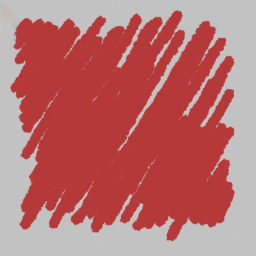
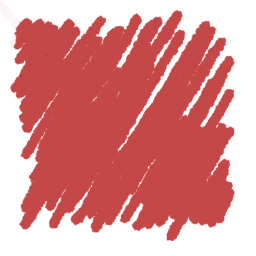
feat: sticker levitation when shifting

diff --git a/src/main.js b/src/main.js
@@ -293,17 +293,37 @@ class MainScene extends Phaser.Scene {
             let player_index_z = Math.floor((this.player.z + 90)/60)
 
             if(this.cube.face_colors[0]?.[player_index_x]?.[player_index_z] != undefined && 
-                this.cube.face_colors[0][player_index_x][player_index_z] != ""){
+            this.cube.face_colors[0][player_index_x][player_index_z] != "" &&
+            this.cube.moving_color.x == -1 && this.cube.moving_color.z == -1){
+                this.player.can_shift = true
+
                 this.cube.moving_color.color = this.cube.face_colors[0][player_index_x][player_index_z]
                 this.cube.moving_color.x = player_index_x
                 this.cube.moving_color.z = player_index_z
                 this.cube.face_colors[0][player_index_x][player_index_z] = ""
                 this.cube.update_colors()
             }
-        }else if(this.cube.moving_color.color != ""){
-            this.cube.face_colors[0][this.cube.moving_color.x][this.cube.moving_color.z] = this.cube.moving_color.color
-            this.cube.moving_color.color = ""
-            this.cube.update_colors()
+            if(this.player.can_shift){
+                this.cube.setTilePosition(this.cube.moving_color.x, this.cube.moving_color.z)
+                this.cube.setTileVisibility(this.cube.moving_color.color)
+                this.cube.setTileY(Math.min(15, this.player.shift_timer) + Math.sin(this.player.timer/10)*3)
+            }
+        }else {
+            this.player.can_shift = false
+        }
+        if(!this.player.can_shift){
+            if(Math.max(0, this.player.shift_timer) > 0){
+                this.cube.setTileY(Math.max(0, this.player.shift_timer))
+            }else{
+                this.cube.setTileVisibility("")
+                if(this.cube.moving_color.color != ""){
+                    this.cube.face_colors[0][this.cube.moving_color.x][this.cube.moving_color.z] = this.cube.moving_color.color
+                    this.cube.moving_color.x = -1
+                    this.cube.moving_color.z = -1
+                    this.cube.moving_color.color = ""
+                    this.cube.update_colors()
+                }
+            }
         }
 
         //Object Rendering

diff --git a/src/cubes.js b/src/cubes.js
@@ -1532,6 +1532,25 @@ export default class Cube {
                 [cube25, cube26, cube27]
             ]
         ]
+        this.old_tile = new Face3d(
+                [
+                    new Point(-90, -90, -90),
+                    new Point(-30, -90, -90),
+                    new Point(-30, -90, -30),
+                    new Point(-90, -90, -30)
+                ],
+                0x151515
+            )
+        this.tile = new Face3d(
+                [
+                    new Point(-90, -90, -90),
+                    new Point(-30, -90, -90),
+                    new Point(-30, -90, -30),
+                    new Point(-90, -90, -30)
+                ],
+                1,
+                ""
+            )
         this.general_cube = new Object3d([
             new Face3d(
                 [
@@ -1599,7 +1618,7 @@ export default class Cube {
         this.anim_rotations = new Set()
         this.last_rotated_axis = ""
         this.last_rotated_index = -1
-        this.moving_color = {x:1, z:1, color:""}
+        this.moving_color = {x:-1, z:-1, color:""}
         this.face_colors = 
         [
             [
@@ -1730,6 +1749,13 @@ export default class Cube {
                 }
             }
         }
+        let face = this.tile
+        let new_face = face.transform(0, 0, 0)
+        .transform(this.rotation.x, this.rotation.y, this.rotation.z)
+        .projection()
+        .translation(width/2, height/2, 0)
+        draw_faces.push(new_face)
+
         return(draw_faces)
     }
 
@@ -1913,5 +1939,20 @@ export default class Cube {
             indexes.push(i.index)
         }
         return indexes
+    }
+
+    setTileY(y_plus){
+        for(let point of this.tile.points){
+            point.y = -90 - y_plus
+        }
+    }
+    setTilePosition(x, z){
+        for(let i = 0; i < this.tile.points.length; i++){
+            this.tile.points[i].x = this.old_tile.points[i].x + x*60
+            this.tile.points[i].z = this.old_tile.points[i].z + z*60
+        }
+    }
+    setTileVisibility(texture){
+        this.tile.texture = texture
     }
 }

diff --git a/src/player.js b/src/player.js
@@ -12,11 +12,13 @@ export default class Player{
         this.x_speed = 0
         this.z_speed = 0
         this.can_down = true
+        this.can_shift = true
         this.anim = 0
         this.last_jump_time = 0
         this.second_jump = false
         this.jump_timer = 50
         this.timer = 0
+        this.shift_timer = 0
         this.kinetic_jump = 0
         this.object = 
         new Object3d([
@@ -104,7 +106,20 @@ export default class Player{
 
         let x = this.x * Math.cos(-rotation.y * Math.PI / 180) - this.z * Math.sin(-rotation.y * Math.PI / 180)
         let z = this.x * Math.sin(-rotation.y * Math.PI / 180) + this.z * Math.cos(-rotation.y * Math.PI / 180)
-
+        let y = this.y
+        if(this.can_shift){
+            y -= Math.min(15, this.shift_timer) + Math.sin(this.timer/10)*3
+            this.shift_timer += 2 * fps_ratio
+            if(this.shift_timer > 15){
+                this.shift_timer = 15
+            }
+        }else{
+            y -= Math.max(0, this.shift_timer)
+            this.shift_timer -= 2 * fps_ratio
+            if(this.shift_timer < 0){
+                this.shift_timer = 0
+            }
+        }
 
         //Aniamtion
         if(this.can_down) this.kinetic_jump -= 1.2 * fps_ratio
@@ -134,10 +149,10 @@ export default class Player{
         this.object.faces[0].texture = a_texture + Math.floor(this.anim)
         this.object.faces[0].points = 
         [
-            new Point(x - 15 + squishX/2, this.y-90, z + 0),
-            new Point(x - 15 + squishX/2, this.y-120+squishY, z - 0),
-            new Point(x + 15 - squishX/2, this.y-120+squishY, z - 0),
-            new Point(x + 15 - squishX/2, this.y-90, z + 0)
+            new Point(x - 15 + squishX/2, y-90, z + 0),
+            new Point(x - 15 + squishX/2, y-120+squishY, z - 0),
+            new Point(x + 15 - squishX/2, y-120+squishY, z - 0),
+            new Point(x + 15 - squishX/2, y-90, z + 0)
         ]
     }
     collisions(rubik_rotation, rotations){
